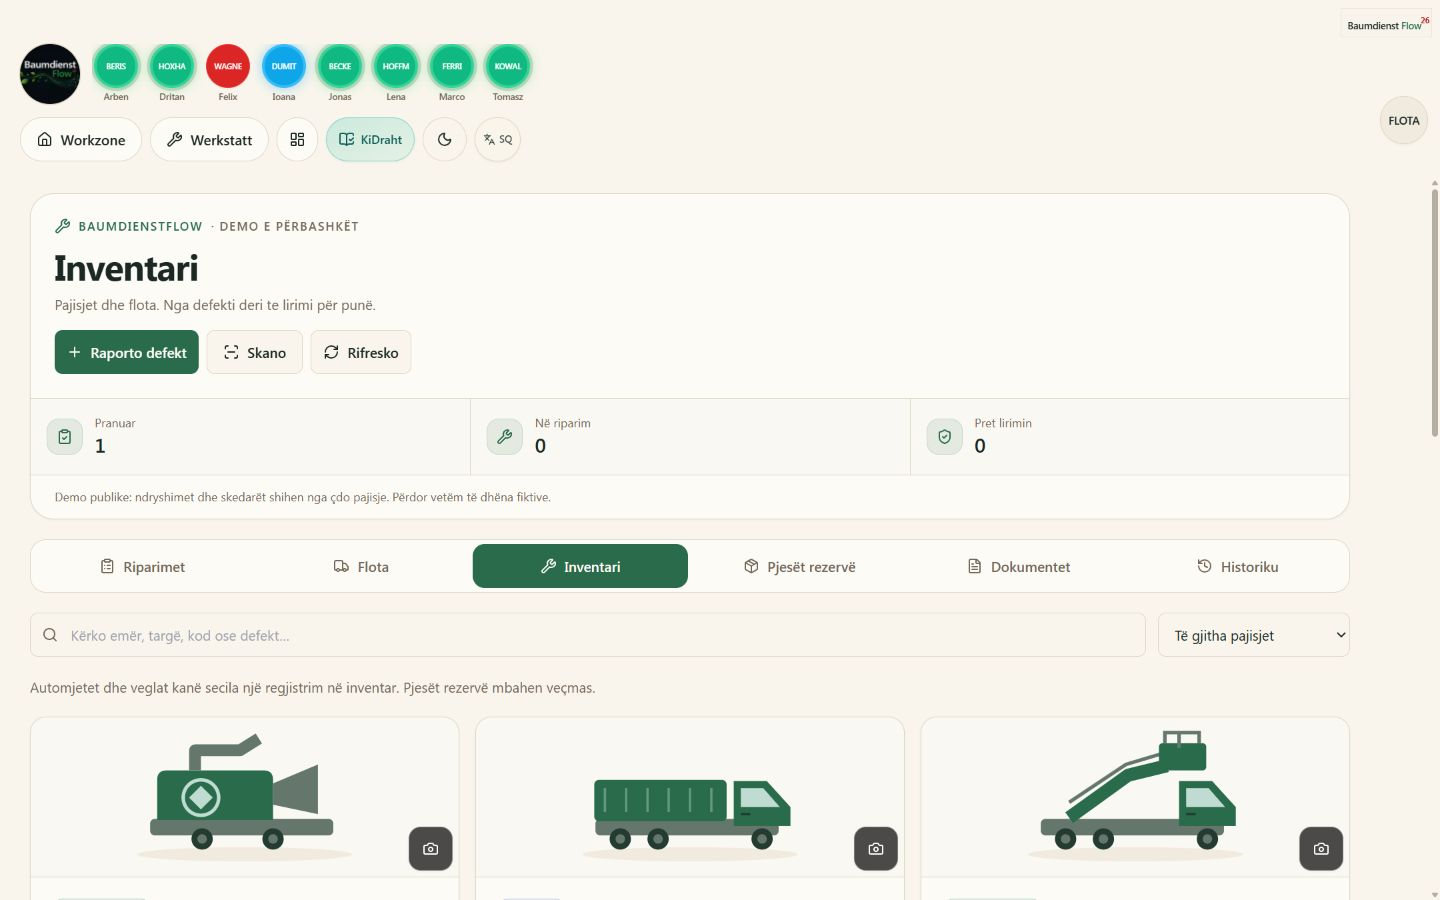
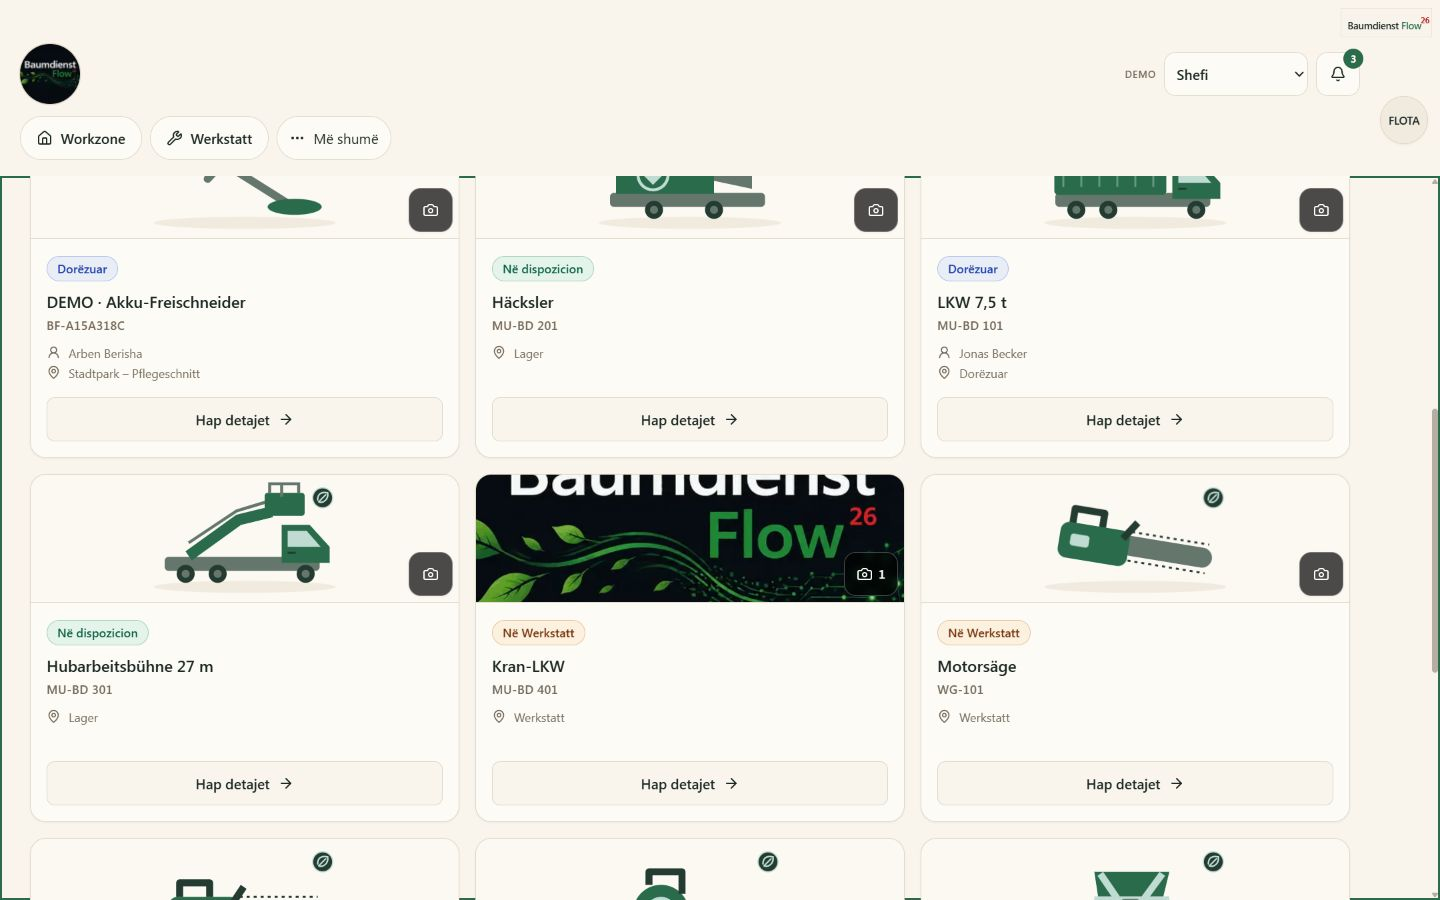
docs: record online custody and tree card acceptance

diff --git a/docs/BAUMDIENST_WORKSHOP_DEMO.md b/docs/BAUMDIENST_WORKSHOP_DEMO.md
@@ -1,6 +1,6 @@
 # BaumdienstFlow: Werkstatt-Demo und UX-Abgleich
 
-Stand: 5. November 2026. **Verbundenes Inventar der Baumdienst-Musterfirma online.** Runtime `23e8ea0a4af9dd949e214e876d82d03c2e062950`, Branch `feat/baumdienst-inventory-flow-20261105`, [Draft PR 54](https://github.com/IamRedi/redionflow/pull/54). Kein Pilot-/Main-Merge. Die früheren Releases `61dc1b5` und `a919133` bleiben unten als Historie erhalten.
+Stand: 5. November 2026. **Bestätigte Geräteübergaben und Baumkarten der Musterfirma online.** Runtime `e85f38536aed3713621266d91039770b6c3a4ad5`, Branch `feat/baumdienst-custody-tree-grid-20261105`, [Draft PR 56](https://github.com/IamRedi/redionflow/pull/56), gestapelt auf PR54. Railway `ce964774-242e-490f-a536-cbd4c92c1401`: SUCCESS seit 19:24:36 UTC, eine gesunde Replica. Kein Main-/Pilot-Merge; frühere Releases bleiben als Historie erhalten.
 
 ## Visuelle Online-Abnahme und begrenzte UI-Korrekturen
 
@@ -267,3 +267,14 @@ Jede Änderung verlangt exakte Origin, begrenzte/streng validierte Nutzlast, Rev
 Erhaltene Schutzgrenzen: 100 Geräte, 1000 Aufträge/Übergaben, 2000 Mitteilungen, 10000 Baumereignisse, 1000 Regeländerungen, 80 Dokumenteinträge, 4MB Workspace und 80 Mutationen/Minute. Überschreitung scheitert atomar ohne Teilbuchung. Diese öffentliche Musterfirma ist eine gemeinsame Demo und kein privater Mandant; ausschließlich fiktive Angaben hochladen. Physische Kamera-/NFC-/Drucker- und Bildschirmtastaturabnahme bleibt getrennt von Responsive-/Browser-/Upload-Simulationen. Generative Bild-KI und produktive Mitarbeiteranmeldung wurden nicht angeschlossen.
 
 Abnahme dieser Erweiterung auf dem Windows-Laptop: 629 Unit-Tests PASS, ein bestehender Skip; vollständige Demo-Browsersuite 19 PASS; anschließend zwei gezielte Browserprüfungen PASS für das gültige HTML-Code39-Muster und das Mitarbeiterprofil bei 320/390px, Landscape und 200% Text. Die drei ausgeschlossenen Profile (ohne Opt-in, andere Firma, SaaS) liefern weiterhin 404, einschließlich Rollenwechsel und Druckansicht. Produktionsbuild/TypeScript, vollständiges Lint, explizites Demo-Lint und die gezielte Prüfung der letzten Änderungen bestehen. Gitleaks ohne Fund. Kein GitHub-Actions-Dispatch. Bestehende Tests wurden auf die neue bestätigte Übergabe und V3 erweitert; keine Assertions für Isolation/Parallelität/Dateierhalt entfernt. Online-Veröffentlichung und konkrete Runtime-Revision werden nach der gesonderten Abnahme ergänzt.
+
+
+### Abschließende Online-Abnahme dieser Erweiterung
+
+Der vorhandene Baumdienst-Webdienst wurde zunächst auf V3 `7dc93f0` und anschließend ausschließlich für den geprüften Profil-/Kontrastabschluss auf `e85f38536aed3713621266d91039770b6c3a4ad5` gepinnt. Keine Variablen, Migrationen, Datenbankdienste, Reset-Dienste, anderen Demos, Secrets oder Tarife wurden geändert. Das Nachfolge-Deployment `ce964774-242e-490f-a536-cbd4c92c1401` ist SUCCESS. Nachfolgende Dokumentations-/Mediencommits lösen wegen des Pins kein weiteres Runtime-Deployment aus. AL Steel wurde von dieser Arbeit nicht beschrieben; dessen eigene Pilot-Branch hatte im Beobachtungszeitraum einen separaten neuen Deploy. Es wird daher keine eingefrorene Pilot-Deployment-ID behauptet.
+
+Vorher: V2/r19, acht Geräte, sechs Aufträge, zwei Dokumente, zwei Fotos. Upgrade: V3/r20 mit allen vorherigen IDs erhalten. Online-Probe nur an einem neuen fiktionalen Gerät `DEMO · Akku-Freischneider`, Code `BF-A15A318C`: Erfassung → Chef-Anfrage an Jonas/Stadtpark (Besitzer bleibt Lager) → Bestätigung durch Jonas → Jonas-Anfrage an Arben (Besitzer bleibt Jonas) → Bestätigung durch Arben. Beide Übergaben enthalten zwei ausdrückliche Bestätigungen, die Kollegenübergabe keine Automatik. Neue Mitteilungen und persönlicher Lesestatus wurden in der UI geprüft. Baum SP-017 wurde erledigt, nach Neuladen als erledigt wieder geöffnet und in Arbeit zurückgesetzt; ursprünglicher Baumstatus ist wiederhergestellt, zwei Ereignisse bleiben erhalten. Abschließend V3/r29: neun Geräte, sechs Aufträge, zwei Dokumente, zwei Fotos, zwei abgeschlossene und keine offenen Übergaben. Alle vorherigen Aufträge/Dateien/Geräte bleiben erhalten.
+
+Aktuelle Online-Aufnahmen: 390×844 und 1440×900, hell/dunkel; 2/6 Baumspalten, Inventarkarten, Mitarbeiter mit demselben Gerät und saubere Profilüberschrift. Ein bei der Sichtprüfung aufgefallener schmaler Profilname wurde durch einen eigenen Musterfirma-Header ersetzt; der verfügbare Status verwendet die korrekte gemeinsame Übersetzung. Touch/Landscape/200%-Text-Prüfung erneut PASS; ergänzend sechs Sprachen und Desktop/Telefon in beiden Themes erneut PASS (zwei gezielte Tests, 1,3 Minuten). Der dunkle Primärtext verwendet die etablierte helle Smaragdvariante nur im opt-in Workspace; Demo-Badge nach Alpha-Komposition 10,35:1. Neue Online-Konsole ohne Fehler. Vorherige vollständige 19er-Browsersuite und 629 Units/1 bestehender Skip bleiben getrennte Nachweise; kein neuer vollständiger Lauf wird für den reinen visuellen Nachtrag behauptet.
+
+Scan/selection protokolliert den gemeldeten Eingabeweg, keinen kryptografischen Nachweis eines physischen Scans. Die Rollenauswahl ist weiterhin eine öffentliche fiktionale Simulation. Physische NFC-/Kamera-/Drucker-/Telefon-Tastaturabnahme bleibt PENDING_RECHECK.

diff --git a/README.md b/README.md
@@ -2,11 +2,13 @@
 
 # RediOnFlow
 
-**Verbundenes Inventar online · 5. November 2026:** [BaumdienstFlow-Inventar ausprobieren](https://redionflow-production.up.railway.app/demo/workshop?tab=tools): ein Eintrag pro Fahrzeug/Werkzeug, Barcode-/NFC-Suche, geprüfte Mitarbeiter-/Baustellenzuordnung, Reparaturherkunft und bewusste Freigabe nach Funktionsprüfung. Historie, Teilebuchungen, Dokumente und Fotos bleiben geräteübergreifend erhalten. Nur die öffentliche Musterfirma; AL Steel und BauFlow bleiben getrennt. [Release, Nachweise und Grenzen](docs/BAUMDIENST_WORKSHOP_DEMO.md).
+**Geräteübergaben und Baumkarten online · 5. November 2026:** [BaumdienstFlow-Musterfirma ausprobieren](https://redionflow-production.up.railway.app/demo/workshop?tab=tools). Geräte mit Barcode/Drucketikett und Foto erfassen. Lagerübergaben mit Chef-/Mitarbeiterbestätigung oder bewusst aktivierter Regel; Kollegenübergaben immer mit beiden Kollegen. Inventar, Flotte, Profile, Baustellen und Werkstatt nutzen denselben gespeicherten Eintrag. Eigene Arten-SVGs bilden Baumkarten mit zwei Spalten am Telefon und sechs am Laptop, Schnellaktionen und voller Detailkarte. Nur das fiktive Template; AL Steel und andere Demos bleiben getrennt. [Logik, Nachweise und Grenzen](docs/BAUMDIENST_WORKSHOP_DEMO.md).
+
+![Tatsächliche Baumkarten der Online-Musterfirma](docs/assets/screenshots/baum-tree-grid-online.jpg)
 
 ![Tatsächliche Online-Aufnahme des Inventars mit fiktiven Daten](docs/assets/screenshots/baum-inventory-online.jpg)
 
-Online geprüft: Desktop/Telefon in beiden Themes, Inventar/Flotte/Baustelle/Mitarbeiter, Defektannahme, Reparatur, geprüfte Freigabe und erneute Zuordnung. Bestehende Daten blieben erhalten. Physische NFC-/Kameraabnahme bleibt separat.
+Online geprüft: Erfassung, Chef → Jonas mit Bestätigung, Jonas → Arben mit beiden Kollegen sowie Erledigen/Wiederöffnen eines Baums nach Neuladen. Telefon/Desktop und beide Themes geprüft; vorhandene Daten/Dateien erhalten. Automatisierte Tests decken zusätzlich Reparatur/Freigabe, Parallelität und gemeinsame Uploads ab. Physische NFC-/Kamera-/Druckabnahme bleibt separat.
 
 **Betriebssoftware für Teams, die draußen arbeiten.** Der Chef plant im Büro, die Mitarbeitenden arbeiten auf der Baustelle am Handy, und beide sehen denselben Stand: Baustellen, Arbeiten, Stunden, Fuhrpark, Material und Kalkulation. Aus einer Codebasis entstehen zwei Produkte:
 

diff --git a/README.en.md b/README.en.md
@@ -2,11 +2,13 @@
 
 # RediOnFlow
 
-**Connected inventory demo online · 5 November 2026:** [Try the BaumdienstFlow inventory](https://redionflow-production.up.railway.app/demo/workshop?tab=tools): one record per vehicle/tool, barcode/NFC lookup, validated crew/site assignments, repair origin and deliberate tested release. History, stock movements, documents and photos persist across devices. Public fictional Musterfirma only; AL Steel and BauFlow remain separate. [Release, evidence and limits](docs/BAUMDIENST_WORKSHOP_DEMO.md).
+**Equipment handovers and tree cards online · 5 November 2026:** [Try the BaumdienstFlow Musterfirma](https://redionflow-production.up.railway.app/demo/workshop?tab=tools). Register equipment with a barcode/printable label and photo. Storage handovers use manager/worker confirmation or an explicitly enabled policy; colleague transfers always require both colleagues. Inventory, fleet, profiles, sites and Werkstatt share one persistent record. Original species SVGs form a 2-column phone / 6-column laptop grid with quick actions and full tree cards. Fictional template only; AL Steel and other demos stay separate. [Logic, evidence and limits](docs/BAUMDIENST_WORKSHOP_DEMO.md).
+
+![Actual online Baumdienst tree grid with fictional data](docs/assets/screenshots/baum-tree-grid-online.jpg)
 
 ![Actual online inventory capture with fictional data](docs/assets/screenshots/baum-inventory-online.jpg)
 
-Verified online: desktop/phone in both themes, inventory/fleet/site/worker links, intake, repair, tested release and deliberate reassignment. Existing data was retained. Physical NFC/camera acceptance remains separate.
+Online verified: registration, manager → Jonas confirmation, Jonas → Arben with both colleagues, and tree completion/reopening retained after reload. Phone/desktop and both themes reviewed; existing records/files preserved. Automated tests additionally cover repair/release, concurrency and shared uploads. Physical NFC/camera/printer acceptance remains separate.
 
 **Operations software for teams that work outdoors.** The owner plans in the office, the crew works on site from their phones, and both see the same state: job sites, tasks, hours, fleet, materials and cost estimates. One codebase ships as two products:
 
